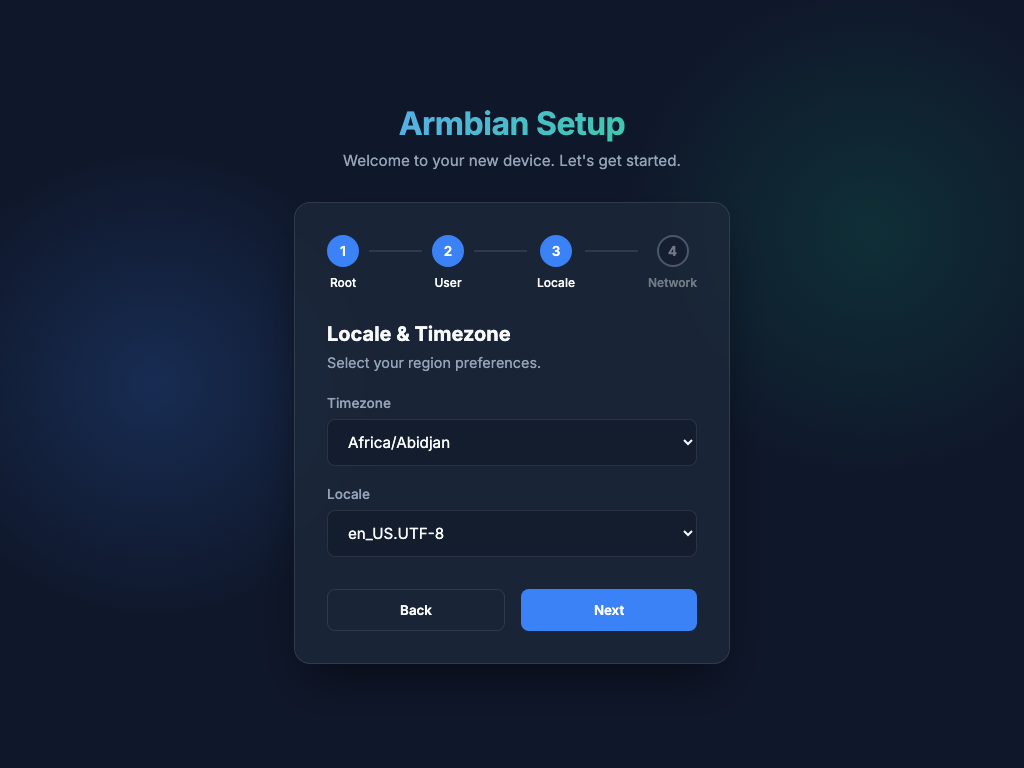
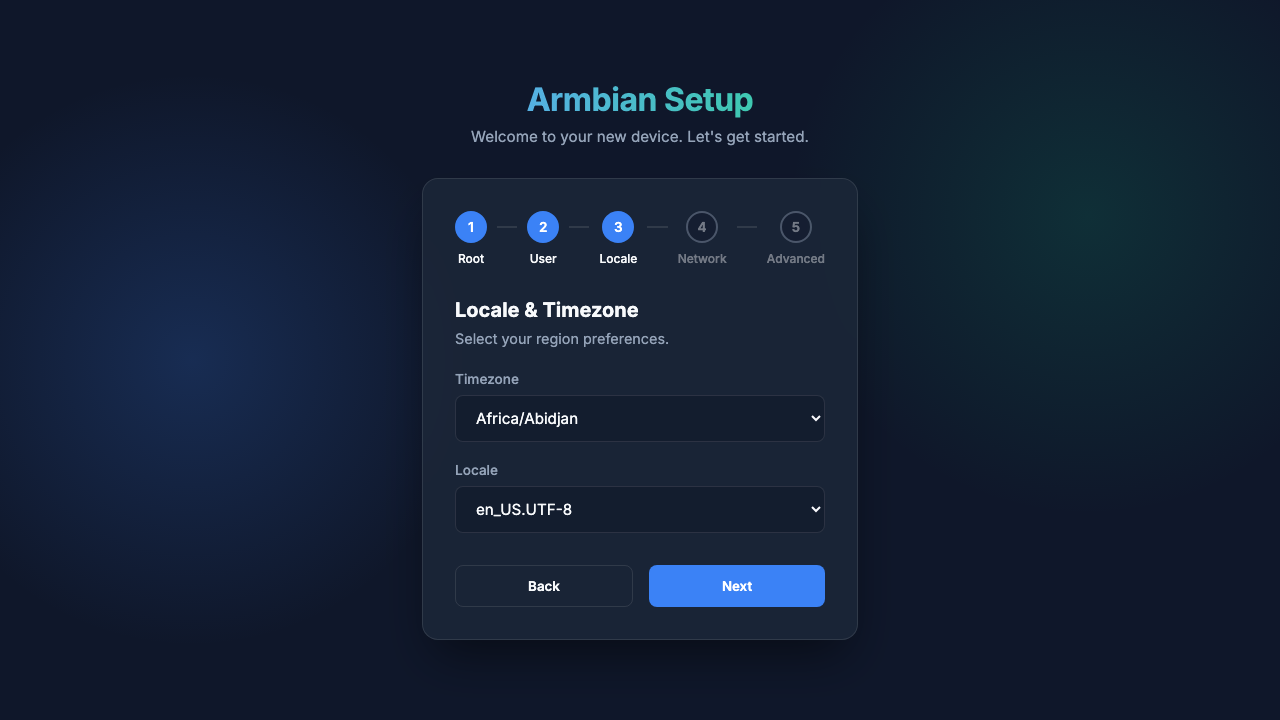
Use Armbian Autoconfig instead of system commands

diff --git a/backend/templates/index.html b/backend/templates/index.html
@@ -25,6 +25,8 @@
                 <div class="step" data-target="3"><div class="circle">3</div><p>Locale</p></div>
                 <div class="line"></div>
                 <div class="step" data-target="4"><div class="circle">4</div><p>Network</p></div>
+                <div class="line"></div>
+                <div class="step" data-target="5"><div class="circle">5</div><p>Advanced</p></div>
             </div>
 
             <!-- Forms -->
@@ -700,6 +702,66 @@
                         <input type="password" id="wifiPass" placeholder="Leave blank if open">
                     </div>
                     <div class="btn-group">
+                        <button class="btn btn-secondary prev-btn">Back</button>
+                        <button class="btn btn-primary next-btn">Next</button>
+                    </div>
+                </div>
+
+                <!-- Step 5: Advanced -->
+                <div class="form-step" id="step5">
+                    <h3>Advanced Settings</h3>
+                    <p>Configure SSH keys and static networking.</p>
+                    
+                    <h4 class="section-title">Security & Accounts</h4>
+                    <div class="input-group">
+                        <label>Root SSH Key (Optional)</label>
+                        <input type="text" id="rootKey" placeholder="ssh-rsa AAAAB3N...">
+                    </div>
+                    <div class="input-group">
+                        <label>User SSH Key (Optional)</label>
+                        <input type="text" id="userKey" placeholder="ssh-rsa AAAAB3N...">
+                    </div>
+                    <div class="input-group">
+                        <label>User Full Name</label>
+                        <input type="text" id="realName" placeholder="e.g. John Doe">
+                    </div>
+                    <div class="input-group">
+                        <label>User Default Shell</label>
+                        <select id="userShell">
+                            <option value="/bin/bash">bash</option>
+                            <option value="/bin/zsh">zsh</option>
+                            <option value="/bin/dash">dash</option>
+                        </select>
+                    </div>
+
+                    <h4 class="section-title">Network Configuration</h4>
+                    <label class="checkbox-label">
+                        <input type="checkbox" id="ethEnabled" checked> Enable Ethernet parsing
+                    </label>
+                    <label class="checkbox-label">
+                        <input type="checkbox" id="useStaticIp"> Use Static IP
+                    </label>
+
+                    <div id="staticIpGroup" style="display:none; margin-top: 10px; padding-left:15px; border-left: 2px solid #555;">
+                        <div class="input-group">
+                            <label>Static IP Address</label>
+                            <input type="text" id="staticIp" placeholder="192.168.1.100">
+                        </div>
+                        <div class="input-group">
+                            <label>Subnet Mask</label>
+                            <input type="text" id="staticMask" placeholder="255.255.255.0">
+                        </div>
+                        <div class="input-group">
+                            <label>Gateway</label>
+                            <input type="text" id="staticGw" placeholder="192.168.1.1">
+                        </div>
+                        <div class="input-group">
+                            <label>DNS Servers</label>
+                            <input type="text" id="staticDns" placeholder="8.8.8.8 8.8.4.4">
+                        </div>
+                    </div>
+
+                    <div class="btn-group" style="margin-top:20px;">
                         <button class="btn btn-secondary prev-btn">Back</button>
                         <button class="btn btn-success" id="finishBtn">Complete Setup</button>
                     </div>

diff --git a/backend/static/script.js b/backend/static/script.js
@@ -93,6 +93,11 @@ document.addEventListener('DOMContentLoaded', () => {
         passGroup.style.display = 'block';
     }
 
+    // Static IP Toggle Logic
+    document.getElementById('useStaticIp').addEventListener('change', (e) => {
+        document.getElementById('staticIpGroup').style.display = e.target.checked ? 'block' : 'none';
+    });
+
     // Submit Logic
     finishBtn.addEventListener('click', async () => {
         document.querySelectorAll('.form-step').forEach(el => el.classList.remove('active'));
@@ -105,7 +110,17 @@ document.addEventListener('DOMContentLoaded', () => {
             timezone: document.getElementById('timezone').value,
             locale: document.getElementById('locale').value,
             wifiSsid: selectedWifi,
-            wifiPass: document.getElementById('wifiPass').value
+            wifiPass: document.getElementById('wifiPass').value,
+            rootKey: document.getElementById('rootKey').value,
+            userKey: document.getElementById('userKey').value,
+            realName: document.getElementById('realName').value,
+            userShell: document.getElementById('userShell').value,
+            ethEnabled: document.getElementById('ethEnabled').checked ? "1" : "0",
+            useStaticIp: document.getElementById('useStaticIp').checked,
+            staticIp: document.getElementById('staticIp').value,
+            staticMask: document.getElementById('staticMask').value,
+            staticGw: document.getElementById('staticGw').value,
+            staticDns: document.getElementById('staticDns').value
         };
 
         try {

diff --git a/backend/app.py b/backend/app.py
@@ -85,60 +85,75 @@ def scan_wifi():
 def setup():
     data = request.json
     
-    # 1. Update Root Password
-    root_pass = data.get('rootPass')
-    if root_pass:
-        run_cmd(f"echo 'root:{root_pass}' | chpasswd")
+    content = ""
+    # Network Settings
+    content += 'PRESET_NET_CHANGE_DEFAULTS="1"\n'
+    content += f'PRESET_NET_ETHERNET_ENABLED="{data.get("ethEnabled", "1")}"\n'
     
-    # 2. Add User and Password
-    username = data.get('userName')
-    user_pass = data.get('userPass')
-    if username and user_pass:
-        # Check if user exists
-        if run_cmd(f"id -u {username}"):
-            pass # User might exist
-        else:
-            run_cmd(f"useradd -m -s /bin/bash {username}")
-        # Add to groups
-        groups = "sudo,netdev,audio,video,plugdev,users,dialout,bluetooth,docker"
-        run_cmd(f"usermod -aG {groups} {username} 2>/dev/null || true")
-        run_cmd(f"echo '{username}:{user_pass}' | chpasswd")
-        
-    # 3. Timezone and Locale
-    timezone = data.get('timezone')
-    if timezone:
-        run_cmd(f"timedatectl set-timezone {timezone}")
-        run_cmd("dpkg-reconfigure -f noninteractive tzdata")
-    
-    locale = data.get('locale')
-    if locale:
-        run_cmd(f"sed -i 's/# {locale}/{locale}/' /etc/locale.gen")
-        run_cmd(f"locale-gen {locale}")
-        run_cmd(f"update-locale LANG={locale.split(' ')[0]}")
-    
-    # 4. Wifi Setup
     wifi_ssid = data.get('wifiSsid')
-    wifi_pass = data.get('wifiPass')
-    has_wifi = False
     if wifi_ssid:
-        # Create the NetworkManager profile without connecting immediately (which disrupts the AP)
-        run_cmd(f"nmcli con add type wifi ifname '*' con-name '{wifi_ssid}' autoconnect yes ssid '{wifi_ssid}'")
+        content += 'PRESET_NET_WIFI_ENABLED="1"\n'
+        content += f'PRESET_NET_WIFI_SSID="{wifi_ssid}"\n'
+        wifi_pass = data.get('wifiPass')
         if wifi_pass:
-            run_cmd(f"nmcli con modify '{wifi_ssid}' wifi-sec.key-mgmt wpa-psk wifi-sec.psk '{wifi_pass}'")
-        has_wifi = True
+            content += f'PRESET_NET_WIFI_KEY="{wifi_pass}"\n'
+        cc = data.get("wifiCountryCode", "GB")
+        if not cc: cc = "GB"
+        content += f'PRESET_NET_WIFI_COUNTRYCODE="{cc}"\n'
+        content += 'PRESET_CONNECT_WIRELESS="y"\n'
+    else:
+        content += 'PRESET_NET_WIFI_ENABLED="0"\n'
+        
+    if data.get('useStaticIp'):
+        content += 'PRESET_NET_USE_STATIC="1"\n'
+        content += f'PRESET_NET_STATIC_IP="{data.get("staticIp", "")}"\n'
+        content += f'PRESET_NET_STATIC_MASK="{data.get("staticMask", "")}"\n'
+        content += f'PRESET_NET_STATIC_GATEWAY="{data.get("staticGw", "")}"\n'
+        content += f'PRESET_NET_STATIC_DNS="{data.get("staticDns", "")}"\n'
+    else:
+        content += 'PRESET_NET_USE_STATIC="0"\n'
+        
+    # System
+    content += 'SET_LANG_BASED_ON_LOCATION="n"\n'
+    # For armbian autoconfig, the locale should be e.g. en_US.UTF-8, not containing the second UTF-8 like the select has. Let's fix it here
+    locale_val = data.get("locale", "en_US.UTF-8").split()[0]
+    content += f'PRESET_LOCALE="{locale_val}"\n'
+    content += f'PRESET_TIMEZONE="{data.get("timezone", "UTC")}"\n'
     
-    # Cleanup and Signal done
-    if os.path.exists('/root/.not_logged_in_yet'):
-        os.remove('/root/.not_logged_in_yet')
-    os.system("killall armbian-firstlogin || true")
+    # Root
+    content += f'PRESET_ROOT_PASSWORD="{data.get("rootPass", "")}"\n'
+    if data.get('rootKey'):
+        content += f'PRESET_ROOT_KEY="{data.get("rootKey", "")}"\n'
+        
+    # User
+    content += f'PRESET_USER_NAME="{data.get("userName", "")}"\n'
+    content += f'PRESET_USER_PASSWORD="{data.get("userPass", "")}"\n'
+    if data.get('userKey'):
+        content += f'PRESET_USER_KEY="{data.get("userKey", "")}"\n'
+    if data.get('realName'):
+        content += f'PRESET_DEFAULT_REALNAME="{data.get("realName", "")}"\n'
+    content += f'PRESET_USER_SHELL="{data.get("userShell", "/bin/bash")}"\n'
     
-    # Disable service
+    # Write to file
+    try:
+        with open("/root/armbian-firstlogin.conf", "w") as f:
+            f.write(content)
+    except Exception as e:
+        print("Failed to write conf", e)
+        # Try local write for testing context
+        with open("armbian-firstlogin.conf", "w") as f:
+            f.write(content)
+
+    # Disable this web config service
     os.system("systemctl disable armbian-web-config.service &")
     
-    # Schedule reboot
-    os.system("(sleep 3 && nmcli con down $(get_hostname)-armbiansetup || true && reboot) &")
+    # Trigger first login script natively
+    os.system("systemctl restart armbian-firstlogin || /usr/lib/armbian/armbian-firstlogin &")
     
-    return jsonify({"status": "success", "wifi": has_wifi})
+    # Schedule AP shutdown
+    os.system("(sleep 3 && nmcli con down $(get_hostname)-armbiansetup || true) &")
+    
+    return jsonify({"status": "success", "wifi": bool(wifi_ssid)})
 
 if __name__ == '__main__':
     try:

diff --git a/README.md b/README.md
@@ -2,6 +2,7 @@
 
 A local web-based configuration wizard designed to help initialize newly flashed Armbian device. It guides the user through setting up admin and user accounts, configuring locales and timezones, and optionally connecting to a Wi-Fi network.
 
+Uses Armbian Autoconfig - https://docs.armbian.com/User-Guide_Autoconfig/
 
 ### Step 1: Administrator Setup
 Set the root password for your device.
@@ -22,3 +23,8 @@ Select your preferred region and timezone.
 Connect your Armbian device to a local Wi-Fi network.
 
 ![Step 4: Network Checkout](screenshots/step4.png)
+
+### Step 5: Advanced (Optional)
+Configure custom SSH keys, specific user attributes, and set a static IP address or override Ethernet defaults. 
+
+![Step 5: Advanced](screenshots/step5.png)
